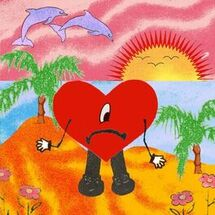
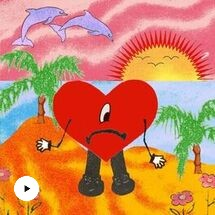
final

Changed region(s): [[0.0558, 0.8093, 0.1953, 0.9488]]

diff --git a/index.html b/index.html
@@ -15,6 +15,7 @@
     <link rel="preconnect" href="https://fonts.googleapis.com">
     <link rel="preconnect" href="https://fonts.gstatic.com" crossorigin>
     <link href="https://fonts.googleapis.com/css2?family=Roboto:wght@400;900&display=swap" rel="stylesheet">
+    <script src="https://kit.fontawesome.com/b59af0f90f.js" crossorigin="anonymous"></script>
     <title>deezer</title>
 </head>
 <body>
@@ -68,7 +69,8 @@
                 </div>
             <section class="videos">
                 <div>
-                    <a href="https://www.deezer.com/mx/album/356351007" target="_self" ><img src="./css/images/feid.jpg" class="v3"></a>
+                    <a href="https://www.deezer.com/mx/album/356351007" target="_top"><i class="fa-solid fa-play"><img src="./css/images/feid.jpg" class="v3"></i></a>
+                    
                     <div class="pie"> 
                     <p> FELIZ CUMPLEAÑOS FERXXO TE<br>PIRATEAMOS EL ÁLBUM<br>Feid</p>
                     </div>
@@ -87,7 +89,7 @@
                 </div>
                 <div>
                     <div class="pie"> 
-                    <a href="https://www.deezer.com/mx/album/331972517" target="_self"><img src="./css/images/bandaa.jpg"  class="v2"></a>
+                    <a href="https://www.deezer.com/mx/album/331972517" target="_self"><img src="./css/images/bandaa.jpg" class="v2"></a>
                     <p>Se Va Formando<br>La Banda Del 5</p>
                     </div>
                 </div>

diff --git a/css/yeimmi.css b/css/yeimmi.css
@@ -124,3 +124,11 @@
     border-radius: 30px;
     margin-bottom:30px ;  
 }
+.fa-solid{
+   align-items: center;
+   color: #000000; 
+}
+.play{
+   display: inline-block;
+   position: relative; 
+}
